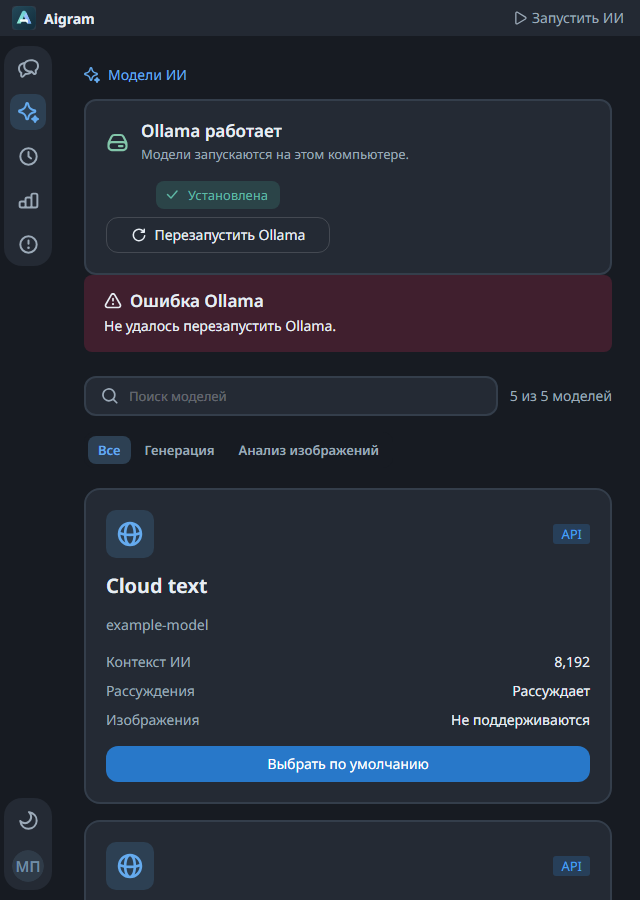
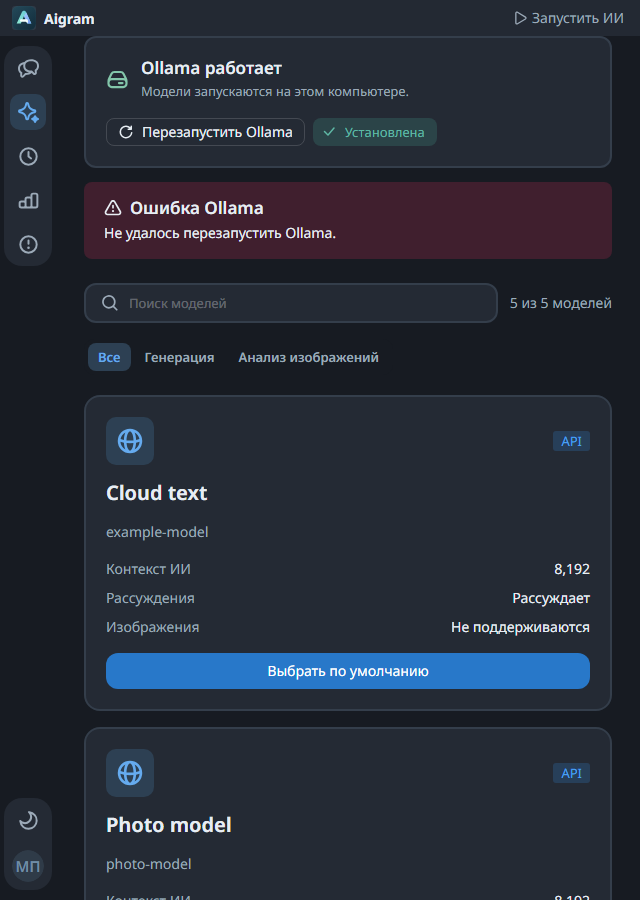
Align Ollama controls and error spacing

diff --git a/web/src/modules/workspace/ModelsPanel/ModelsPanel.tsx b/web/src/modules/workspace/ModelsPanel/ModelsPanel.tsx
@@ -93,13 +93,13 @@ export function ModelsPanel({
                                 </Flex>
                             </Flex>
                             <Flex
-                                className={`${styles.engineActions} ${styles.engineActionsRestart}`}
-                                direction="column"
+                                className={`${styles.engineActions} ${styles.engineActionsOnline}`}
+                                direction="row"
                                 gap={2}
                                 alignItems="center"
                             >
-                                <Skeleton width={100} height={28} />
-                                <Skeleton width="100%" height={36} />
+                                <Skeleton width={180} height={28} />
+                                <Skeleton width={124} height={28} />
                             </Flex>
                         </Flex>
                     </Box>
@@ -220,12 +220,27 @@ export function ModelsPanel({
                             </Flex>
                         </Flex>
                         <Flex
-                            className={`${styles.engineActions} ${engine.online ? styles.engineActionsRestart : ''}`}
-                            direction="column"
+                            className={`${styles.engineActions} ${engine.online ? styles.engineActionsOnline : ''}`}
+                            direction={engine.online ? 'row' : 'column'}
+                            qa={engine.online ? 'engine-online-actions' : undefined}
                             gap={2}
                             justifyContent="flex-end"
                             alignItems="center"
                         >
+                            {engine.online && (
+                                <Button
+                                    className={styles.engineRestart}
+                                    size="m"
+                                    view="outlined"
+                                    loading={busy === 'restart'}
+                                    disabled={!engine.canRestart || !!busy || !!engine.downloading}
+                                    title={!engine.canRestart ? t('engineRestartExternal') : undefined}
+                                    onClick={() => void action('restart', () => api.models.restartEngine())}
+                                >
+                                    <Icon data={ArrowRotateRight} size={16} />
+                                    {t('restartEngine')}
+                                </Button>
+                            )}
                             {installingEngine ? (
                                 <DownloadButton
                                     engine={engine}
@@ -233,7 +248,13 @@ export function ModelsPanel({
                                     onCancel={() => void cancelDownload()}
                                 />
                             ) : engine.online ? (
-                                <Label theme="success" size="m" icon={<Icon data={Check} size={16} />}>
+                                <Label
+                                    className={styles.engineInstalled}
+                                    qa="engine-installed"
+                                    theme="success"
+                                    size="m"
+                                    icon={<Icon data={Check} size={16} />}
+                                >
                                     {t('installed')}
                                 </Label>
                             ) : engineInstalled ? (
@@ -261,25 +282,15 @@ export function ModelsPanel({
                                     {t('installEngine')}
                                 </Button>
                             )}
-                            {engine.online && (
-                                <Button
-                                    className={styles.engineAction}
-                                    size="l"
-                                    view="outlined"
-                                    loading={busy === 'restart'}
-                                    disabled={!engine.canRestart || !!busy || !!engine.downloading}
-                                    title={!engine.canRestart ? t('engineRestartExternal') : undefined}
-                                    onClick={() => void action('restart', () => api.models.restartEngine())}
-                                >
-                                    <Icon data={ArrowRotateRight} size={16} />
-                                    {t('restartEngine')}
-                                </Button>
-                            )}
                         </Flex>
                     </Flex>
                 </Box>
                 {(error || engine.error) && (
-                    <StatusNotice title={t('engineErrorTitle')} description={error || engine.error} />
+                    <StatusNotice
+                        className={styles.engineNotice}
+                        title={t('engineErrorTitle')}
+                        description={error || engine.error}
+                    />
                 )}
                 <PromptBudgetNotice
                     warningsOnly

diff --git a/web/tests/e2e/task-models.spec.ts b/web/tests/e2e/task-models.spec.ts
@@ -213,19 +213,51 @@ for (const dark of [false, true]) {
         await expect(restart).toBeEnabled();
         for (const width of [1440, 640]) {
             await page.setViewportSize({width, height: 900});
+            await card.scrollIntoViewIfNeeded();
             await expect(restart).toBeInViewport();
             const geometry = await restart.evaluate((button) => {
                 const bounds = button.getBoundingClientRect();
                 const parent = button.closest('[data-qa="engine-card"]')!.getBoundingClientRect();
                 const label = button.querySelector('.g-button__text')!.getBoundingClientRect();
+                const status = button.parentElement!.querySelector('[data-qa="engine-installed"]')!;
+                const statusBounds = status.getBoundingClientRect();
+                const actions = button.parentElement!.getBoundingClientRect();
+                const notice = button.closest('[data-qa="workspace-view"]')!.querySelector('[role="alert"]')!;
                 return {
                     buttonFits: bounds.left >= parent.left && bounds.right <= parent.right,
                     textFits: label.left >= bounds.left && label.right <= bounds.right,
                     clipped: button.scrollWidth > button.clientWidth + 1,
                     pageOverflow: document.documentElement.scrollWidth > window.innerWidth,
+                    restartFirst: bounds.right <= statusBounds.left,
+                    sameRow: Math.abs(bounds.top - statusBounds.top) <= 1,
+                    sameHeight: Math.abs(bounds.height - statusBounds.height) <= 1,
+                    compactHeight: Math.abs(bounds.height - 28) <= 1 && Math.abs(actions.height - 28) <= 1,
+                    sameRadius:
+                        getComputedStyle(button, '::before').borderRadius ===
+                        getComputedStyle(status).borderRadius,
+                    naturalWidth:
+                        Math.abs(
+                            actions.width -
+                                bounds.width -
+                                statusBounds.width -
+                                parseFloat(getComputedStyle(button.parentElement!).columnGap),
+                        ) <= 1,
+                    noticeGap: Math.round(notice.getBoundingClientRect().top - parent.bottom),
                 };
             });
-            expect(geometry).toEqual({buttonFits: true, textFits: true, clipped: false, pageOverflow: false});
+            expect(geometry).toEqual({
+                buttonFits: true,
+                textFits: true,
+                clipped: false,
+                pageOverflow: false,
+                restartFirst: true,
+                sameRow: true,
+                sameHeight: true,
+                compactHeight: true,
+                sameRadius: true,
+                naturalWidth: true,
+                noticeGap: 14,
+            });
             await page.screenshot({
                 path: `../docs/resources/engine-restart-${width === 640 ? 'compact-' : ''}${theme}.png`,
                 animations: 'disabled',

diff --git a/web/src/modules/workspace/ModelsPanel/ModelsPanel.test.tsx b/web/src/modules/workspace/ModelsPanel/ModelsPanel.test.tsx
@@ -37,6 +37,29 @@ vi.mock('@/shared/api/client', async (original) => ({
 }));
 vi.mock('@/modules/settings/PromptBudgetNotice/PromptBudgetNotice', () => ({PromptBudgetNotice: () => null}));
 
+it('places the compact restart before the installed status in one online action group', async () => {
+    render(
+        <NextIntlClientProvider locale="ru" messages={ru}>
+            <ThemeProvider>
+                <ModelsPanel
+                    engine={{...workspaceState.engine, canRestart: true}}
+                    defaultModel="qwen3:1.7b"
+                    onRefresh={vi.fn()}
+                />
+            </ThemeProvider>
+        </NextIntlClientProvider>,
+    );
+    const button = screen.getByRole('button', {name: ru.restartEngine});
+    const group = button.closest('[data-qa="engine-online-actions"]');
+    const status = group?.querySelector('[data-qa="engine-installed"]');
+    expect(group).not.toBeNull();
+    expect(status).toHaveTextContent(ru.installed);
+    expect(status?.parentElement).toBe(group);
+    expect(group?.firstElementChild).toBe(button);
+    expect(button).toHaveClass('g-button_size_m');
+    await waitFor(() => expect(mocks.modelProfiles).toHaveBeenCalled());
+});
+
 it('renders an Ollama warmup failure as an icon title and description block', async () => {
     const engine = {...workspaceState.engine, error: 'Не удалось загрузить модель в память.'};
     render(

diff --git a/web/tests/e2e/workspace.spec.ts b/web/tests/e2e/workspace.spec.ts
@@ -508,6 +508,7 @@ test('model placeholders follow the engine search and card grid layout', async (
     const engineBounds = await page.locator('[data-qa="engine-card"]').boundingBox();
     expect(Math.abs(engineBounds!.x - skeleton!.x)).toBeLessThanOrEqual(1);
     expect(Math.abs(engineBounds!.width - skeleton!.width)).toBeLessThanOrEqual(1);
+    expect(Math.abs(engineBounds!.height - skeleton!.height)).toBeLessThanOrEqual(2);
     const actual = await page.locator('[data-qa="model-card"]').evaluateAll((elements) =>
         elements.slice(0, 3).map((element) => {
             const rect = element.getBoundingClientRect();

diff --git a/web/src/modules/workspace/ModelsPanel/ModelsPanel.module.css b/web/src/modules/workspace/ModelsPanel/ModelsPanel.module.css
@@ -56,10 +56,26 @@
     min-width: min(176px, 100%);
 }
 
-.engineActionsRestart {
-    flex: 0 1 224px;
-    width: 224px;
-    min-width: min(224px, 100%);
+.engineActionsOnline {
+    flex: 0 0 auto;
+    flex-wrap: wrap;
+    width: auto;
+    min-width: 0;
+}
+
+.engineRestart {
+    --g-button-border-radius: var(--g-border-radius-m);
+
+    flex-shrink: 0;
+}
+
+.engineInstalled {
+    flex-shrink: 0;
+    border-radius: var(--g-border-radius-m);
+}
+
+.engineNotice {
+    margin-top: 14px;
 }
 
 .engineAction {

diff --git a/CHANGELOG.md b/CHANGELOG.md
@@ -26,6 +26,7 @@ Release versions are assigned by Windows CI. Each GitHub release includes the fi
 - Kept partial chat rules, nested model options, appearance and prompt settings compatible with their previous defaults. Explicit invalid nulls and scalar coercions are rejected at the HTTP boundary.
 - Prevented a completed manual draft error from duplicating its local notice or reviving an older automatic-reply failure after polling.
 - Restored complete optional N-API/WASM dependency metadata for clean npm installation after removing the old transport. Existing resolved package versions remain unchanged.
+- Aligned the compact Ollama restart button to the left of the installed badge with matching height and corners, added space above engine errors and matched the loading placeholder to the final layout.
 
 ### Removed
 
@@ -38,6 +39,7 @@ Release versions are assigned by Windows CI. Each GitHub release includes the fi
 - Packaged and launched local Aigram 2.6.31 with bundled Java. Native window/tray/startup, updater recovery/profile migration and media checks passed. The packaged JAR contains nine MVC controllers and no legacy HTTP/injection classes or Guice/JSR-330 libraries. Packaged desktop modules, update helper and backend JAR match the checked artifacts.
 - The actual profile restored Telegram authorization automatically; saved settings and manual memory notes were preserved. Release publication still requires the green Windows workflow and published EXE/SDK checksum verification.
 - A clean isolated installation passed with the CI resolver, npm 11.19.0; npm 11.6.2 compatibility and byte-stable lockfile regeneration were also verified.
+- The final Ollama layout passed 11 component tests and five focused browser scenarios, including both themes, 640 px windows, equal control heights, error spacing and stable installation progress sizing.
 - No database migration, model download or real Telegram send is required for these tests.
 
 ## 2026-10-21 — Generated contract and HTTP clients
